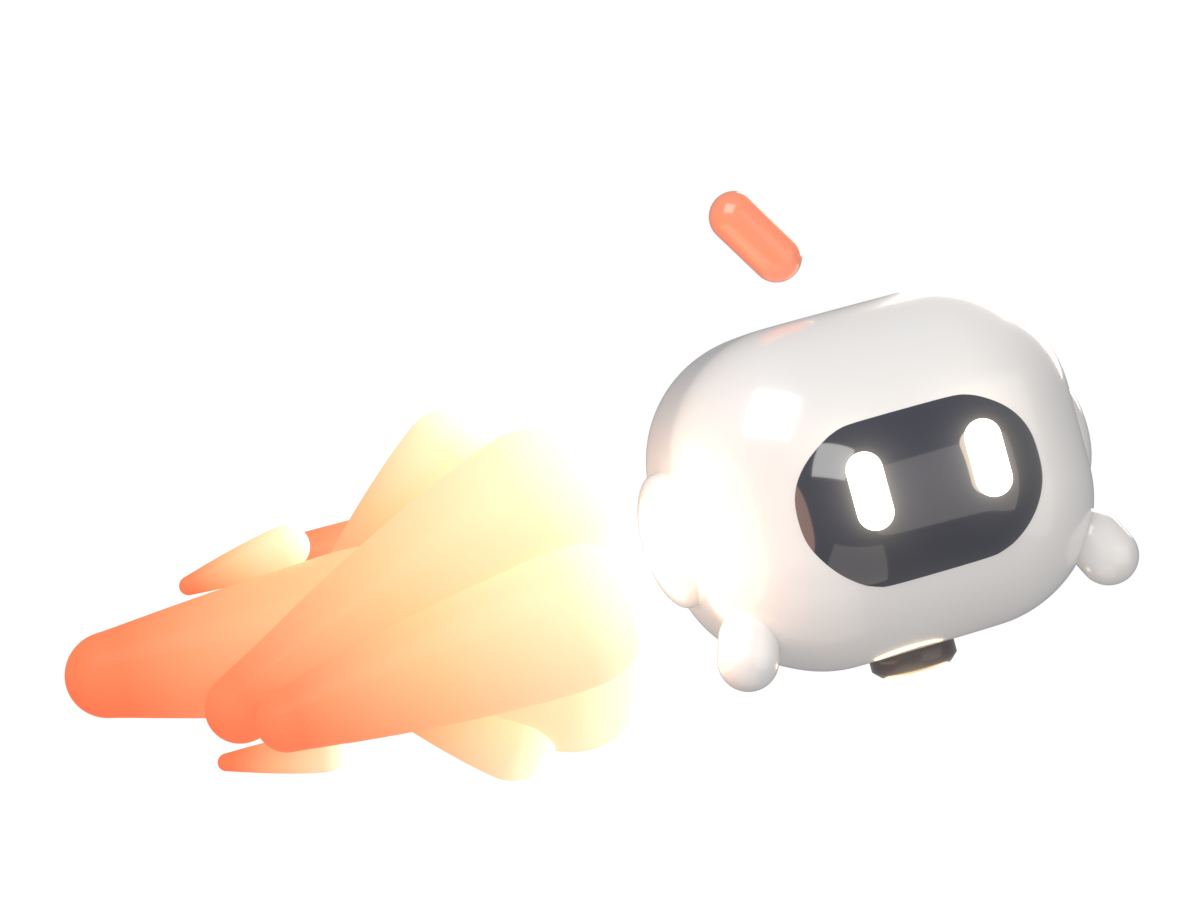
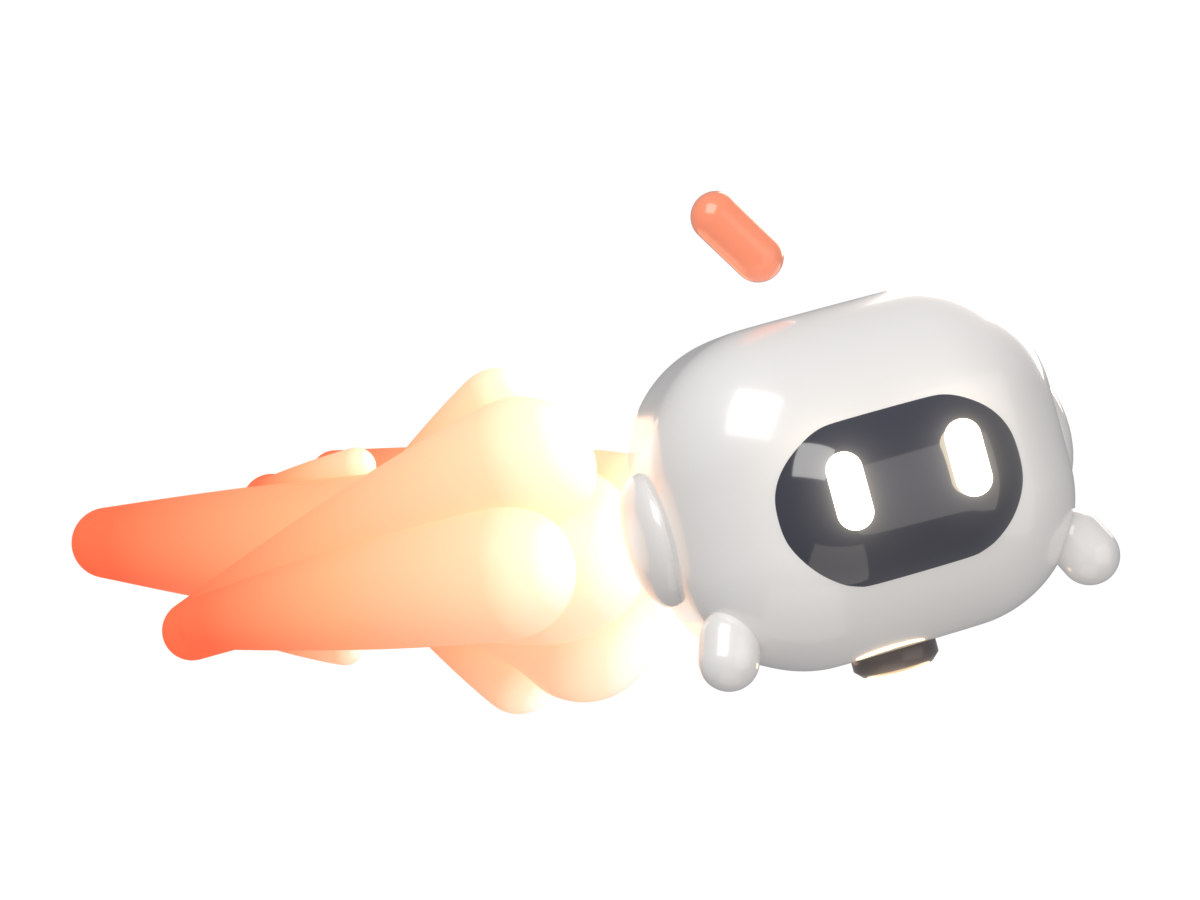
Make the flame trail come from behind the bot
Pivot the flame cluster so it originates at the back of the head and
trails back and to the left, lengthen the lobes and tone down the white
core. Re-render the with-flames hero.

Claude-Session: https://claude.ai/code/session_01SSLbkdzfyPBB86g33XYizB

diff --git a/paper-comet/blender/bot.py b/paper-comet/blender/bot.py
@@ -205,7 +205,7 @@ if A.flames:
     b.inputs['Specular IOR Level'].default_value = 0.2
     b.inputs['Subsurface Weight'].default_value = 0.12
     b.inputs['Subsurface Radius'].default_value = (0.6, 0.25, 0.1)
-    b.inputs['Emission Strength'].default_value = 1.1
+    b.inputs['Emission Strength'].default_value = 0.75
     # colour ramp along the lobe's local Y: white-hot near the bot, red-orange at the tip
     tc = nt.nodes.new('ShaderNodeTexCoord')
     sep = nt.nodes.new('ShaderNodeSeparateXYZ')
@@ -213,8 +213,8 @@ if A.flames:
     ramp = nt.nodes.new('ShaderNodeValToRGB')
     ramp.color_ramp.elements[0].color = (1.0, 0.95, 0.88, 1)
     ramp.color_ramp.elements[1].color = (1.0, 0.13, 0.05, 1)
-    e = ramp.color_ramp.elements.new(0.08); e.color = (1.0, 0.72, 0.5, 1)
-    e = ramp.color_ramp.elements.new(0.22); e.color = (1.0, 0.5, 0.3, 1)
+    e = ramp.color_ramp.elements.new(0.05); e.color = (1.0, 0.72, 0.5, 1)
+    e = ramp.color_ramp.elements.new(0.16); e.color = (1.0, 0.5, 0.3, 1)
     e = ramp.color_ramp.elements.new(0.6); e.color = (1.0, 0.32, 0.15, 1)
     nt.links.new(tc.outputs['Generated'], sep.inputs[0])
     nt.links.new(sep.outputs['X'], mr.inputs['Value'])
@@ -225,6 +225,9 @@ if A.flames:
 
     flames = link(bpy.data.objects.new('flames', None))
     flames.parent = bot
+    # the cluster's tail axis points behind the head (+Y) and to the left (-X), dipping slightly
+    flames.rotation_euler = Euler((math.radians(-8), math.radians(8), math.radians(-34)), 'XYZ')
+    flames.location = (0.0, 0.0, -0.06)
     # (x offset back, y, z, length, radius, pitch deg)
     LOBES = [
         (0.00, 0.00, -0.08, 1.3, 0.27, 6), (-0.06, -0.16, 0.16, 1.0, 0.22, -18), (-0.04, 0.14, -0.3, 0.95, 0.22, 24),
@@ -233,6 +236,7 @@ if A.flames:
         (-0.85, 0.02, 0.24, 0.3, 0.06, -6), (-0.9, -0.05, -0.3, 0.28, 0.055, 10),
     ]
     GAP = 0.1
+    LOBES = [(bx, y, z, L * 1.3, R, p) for (bx, y, z, L, R, p) in LOBES]
     for i, (bx, y, z, L, R, pitch) in enumerate(LOBES):
         # a teardrop built from a profile: round front, gentle taper, rounded cap at the tail
         cap = 0.42
@@ -267,7 +271,7 @@ if A.flames:
         smooth(o)
     # warm light from the flames onto the bot
     fl = bpy.data.lights.new('flamelight', 'POINT'); fl.energy = 30; fl.color = (1, .55, .35); fl.shadow_soft_size = 0.6
-    flo = link(bpy.data.objects.new('flamelight', fl)); flo.location = (-0.95, -0.25, -0.05); flo.parent = bot
+    flo = link(bpy.data.objects.new('flamelight', fl)); flo.location = (-0.6, 0.75, -0.05); flo.parent = bot
 
 # ---------------------------------------------------------------- pose
 bot.rotation_euler = Euler((math.radians(-8), math.radians(-14), math.radians(14)), 'XYZ')
@@ -275,7 +279,7 @@ bot.rotation_euler = Euler((math.radians(-8), math.radians(-14), math.radians(14
 # ---------------------------------------------------------------- camera + light
 cam = bpy.data.cameras.new('cam'); cam.lens = 70
 co = link(bpy.data.objects.new('cam', cam))
-co.location = (-0.45 if A.flames else 0.0, -6.4, 0.75)
+co.location = (-0.4 if A.flames else 0.0, -6.4, 0.75)
 co.rotation_euler = (math.radians(84), 0, math.radians(2.5))
 sc.camera = co
 cam.dof.use_dof = True; cam.dof.focus_object = head; cam.dof.aperture_fstop = 5.6
